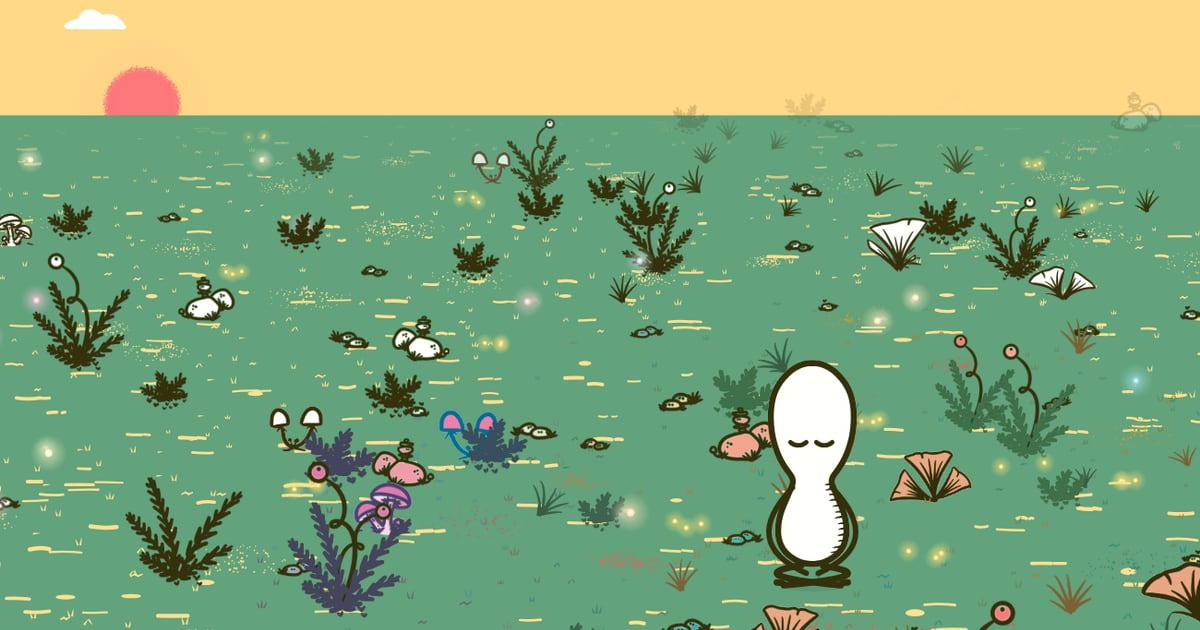
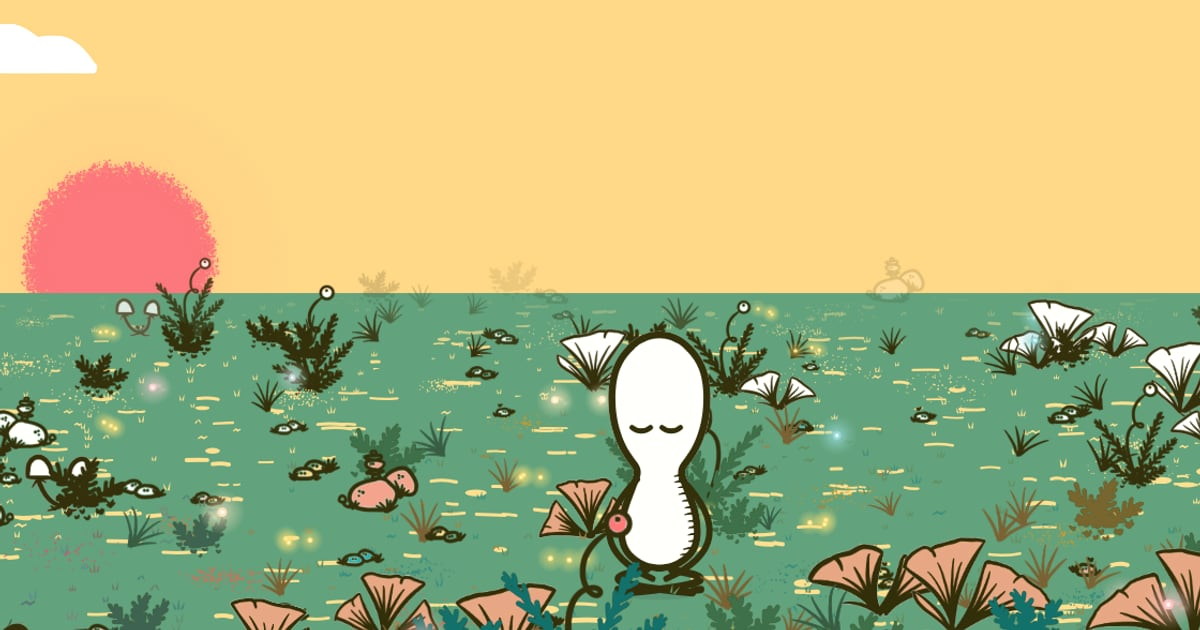
La franja de la hora en el iPhone: el mundo recupera su cielo, Inicio y las cartas le dan su color (#136)
* Sid's share picture: Sid in the middle, closer, the sun rising, the camera looking up as for a constellation

Claude-Session: https://claude.ai/code/session_01WTSfarsaRbQ4zQwAYYhqZ8

* The strip under the iPhone's clock: Sid's world keeps its sky, the landing and the cards give it their colour

- Sid's world is laid out on the screen below the strip (env(safe-area-inset-top)), as it was
  when the page started below it: the horizon, Sid and the sun's way as before, the strip more sky
- .status-strip takes --strip (statusStrip.js): the landing's violet turning into the navy as the
  hero scrolls away, a card's background colour; navy elsewhere

Claude-Session: https://claude.ai/code/session_01WTSfarsaRbQ4zQwAYYhqZ8

---------

diff --git a/src/lab/LabSid.vue b/src/lab/LabSid.vue
@@ -1015,7 +1015,19 @@ function toSid(p, d = state.d) {
     return { x: state.cam + (p.x - x0) / s, y: state.ground + (p.y - groundAt(d)) / s };
 }
 
-const view = { w: 1, h: 1, k: 1, dpr: 1, floor: 1 };
+const view = { w: 1, h: 1, k: 1, dpr: 1, floor: 1, top: 0 };
+// The strip under the clock and the battery (opened from the iPhone's Home Screen the page goes under it, black-translucent
+// in index.html; 0 elsewhere): the world is laid out on the screen below it, as it was when the page started below it, and
+// the strip is more sky over it
+let insetProbe = null;
+function safeTop() {
+    if (!insetProbe) {
+        insetProbe = document.createElement('div');
+        insetProbe.style.cssText = 'position:fixed;top:0;left:0;width:0;height:env(safe-area-inset-top, 0px);visibility:hidden;pointer-events:none';
+        document.body.appendChild(insetProbe);
+    }
+    return insetProbe.offsetHeight || 0;
+}
 let raf = 0, last = 0, paused = false;
 
 function resize() {
@@ -1023,11 +1035,13 @@ function resize() {
     view.dpr = Math.min(window.devicePixelRatio || 1, 2);
     view.w = el.clientWidth; view.h = el.clientHeight;
     el.width = view.w * view.dpr; el.height = view.h * view.dpr;
+    view.top = Math.min(safeTop(), view.h * 0.2);
+    const H = view.h - view.top;              // (the screen below the strip under the clock)
     // He is about half the height of the screen
     // (SMALL: he is a little smaller than at first, so the world, and her tree, are big round him)
-    view.k = SMALL * Math.min((ui.touch ? view.h * 0.55 : view.h * 0.62) / (TALL + STAND), view.w * 0.9 / 420);
+    view.k = SMALL * Math.min((ui.touch ? H * 0.55 : H * 0.62) / (TALL + STAND), view.w * 0.9 / 420);
     const was = state.ground;
-    state.ground = (ui.touch ? view.h * 0.84 : view.h * 0.86) / view.k;
+    state.ground = (view.top + (ui.touch ? H * 0.84 : H * 0.86)) / view.k;
     view.horizon0 = ui.touch ? 0.2 : 0.24;     // where the horizon is on the screen (high: little sky), and looking up
     lookAt();
     if (!was) { state.x = START_X; state.cam = state.x; state.camD = -follow(); }     // (he starts a short walk before the first place, which is ahead on his way)
@@ -1043,12 +1057,12 @@ const LOOK_HORIZON = { touch: 0.6, wide: 0.52 };
 function lookAt() {
     const e = state.look ?? 0, k = e * e * (3 - 2 * e);
     const at = view.horizon0 + ((ui.touch ? LOOK_HORIZON.touch : LOOK_HORIZON.wide) - view.horizon0) * k;
-    view.floor = (state.ground * view.k - view.h * at) / view.k;
+    view.floor = (state.ground * view.k - (view.top + (view.h - view.top) * at)) / view.k;
 }
 // (the starry night is as tall as the sky can be, looking up: the ground drawn over it hides what is under the horizon,
 // and its stars are not made again as the camera moves)
 function skyHeight() {
-    if (nightSky.value) nightSky.value.style.height = `${Math.ceil(view.h * (ui.touch ? LOOK_HORIZON.touch : LOOK_HORIZON.wide)) + 2}px`;
+    if (nightSky.value) nightSky.value.style.height = `${Math.ceil(view.top + (view.h - view.top) * (ui.touch ? LOOK_HORIZON.touch : LOOK_HORIZON.wide)) + 2}px`;
 }
 
 function pointerTo(e) {
@@ -1635,7 +1649,7 @@ function draw() {
     const W = view.w / view.k;
 
     // The floor, back to the horizon, and him on it at his depth (smaller and nearer the middle the farther back)
-    world.drawSky(c, { width: W, cam: state.cam, d: state.d }, 0, horizon());
+    world.drawSky(c, { width: W, cam: state.cam, d: state.d }, view.top / view.k, horizon());   // (the sun's way and the clouds in the sky below the strip under the clock; the sky's colour up to the top)
     // the zone's colours: his line and body, the colour under the starry night, and the header's icons cream by night
     INK = world.ink(); FILL = world.white();
     const dark = world.night(), under = world.nightColour();

diff --git a/src/views/Landing.vue b/src/views/Landing.vue
@@ -1,5 +1,7 @@
 <script setup>
 	import { onMounted, onBeforeUnmount, ref } from 'vue';
+    import { setStrip, mixColour } from '../composables/statusStrip.js';
+    const VIOLET = '#6A428D', NAVY = '#143246';   // (the hero's --tint, from the violet to the oracle block's navy)
     import { useRouter } from 'vue-router';
     import { inView, scroll } from "motion";
 
@@ -58,6 +60,8 @@
     const stopReveals = [];
 
     onBeforeUnmount(() => {
+        setStrip(null);
+        window.removeEventListener('scroll', stripFollows);
         unmounted = true;
         cellField?.destroy();
         spiral?.destroy();
@@ -67,8 +71,19 @@
         stopReveals.forEach((stop) => stop());
     });
 
+    function stripFollows() {
+        const hero = document.getElementById('hero');
+        if (!hero) return;
+        const h = window.innerHeight, end = hero.getBoundingClientRect().bottom;
+        setStrip(mixColour(VIOLET, NAVY, Math.min(1, Math.max(0, (h - end) / (h * 0.55)))));
+    }
+
     // //ON MOUNTED
 	onMounted (() => {         
+        // The strip under the iPhone's clock (installed app) goes on from the hero: violet, turning into the oracle block's
+        // navy as the hero's end rises from the bottom of the screen to 45% of it, as its --mix does (with reduced motion too)
+        stripFollows();
+        window.addEventListener('scroll', stripFollows, { passive: true });
         spiral = createHeroSpiral(spiralCanvas.value, { animate: !reducedMotion });
         starField = createStarField(starCanvas.value, document.getElementById('oracle'), { onShoot: () => play('star') });
         //The sky keeps going into the top of the next block and fades out as the background turns violet

diff --git a/src/App.vue b/src/App.vue
@@ -59,8 +59,8 @@
 </template>
 
 <!-- Opened from the iPhone's Home Screen the page goes under the clock and the battery (black-translucent, index.html):
-     only Sid's world shows there (its sky); everywhere else that strip is painted navy, where the white clock reads, and
-     the app starts below it. In Safari or on a computer there is no such strip (the inset is 0). -->
+     only Sid's world shows there (its sky); everywhere else that strip is painted, where the white clock reads, and the
+     app starts below it: navy, or the colour of the page's own top (--strip, statusStrip.js). In Safari or on a computer there is no such strip (the inset is 0). -->
 <style>
 	.status-strip { display: none; }
 	@media (display-mode: standalone) {
@@ -71,7 +71,10 @@
 			left: 0;
 			right: 0;
 			height: env(safe-area-inset-top, 0px);
-			background: #143246;
+			/* navy, or the colour a page gives it at its top (--strip, statusStrip.js): the landing's violet as it
+			   turns into the navy, a card's background */
+			background: var(--strip, #143246);
+			transition: background-color 400ms ease-out;
 			z-index: 60;
 			pointer-events: none;
 		}

diff --git a/src/components/CardTemplate.vue b/src/components/CardTemplate.vue
@@ -5,6 +5,7 @@
     import { takePendingTransition } from '../cardTransition.js';
 
     import { getCard } from '../data/cards.js';
+    import { setStrip } from '../composables/statusStrip.js';
     import { sceneFor, sceneNameFor } from '../data/cardScenes.js';
     import { setCurrentVisit, startCardVisit, track } from '../analytics.js';
 
@@ -70,6 +71,8 @@
     const stopInk = watchEffect(() => document.body.classList.toggle('card-ink', INK_HEADER.has(String(props.id))));
 
     onMounted(async () => {
+        // the strip under the iPhone's clock (installed app) in the card's background colour, the colour round its drawing
+        setStrip(color.value || null);
         window.addEventListener('scroll', fadeCue, { passive: true });
         window.addEventListener('pagehide', visit.finish);
         document.addEventListener('visibilitychange', onHidden);
@@ -108,6 +111,7 @@
     });
 
     onBeforeUnmount(() => {
+        setStrip(null);
         window.removeEventListener('scroll', fadeCue);
         stopReveals.forEach((stop) => stop());
         transition?.el.remove();

diff --git a/src/lab/sidWorld.js b/src/lab/sidWorld.js
@@ -1434,8 +1434,8 @@ export function createWorld({ clouds = null, moon = null, planted = [], visit = 
         lastD = view.d ?? lastD;
         screen = blend(zonesAt(view.cam, lastD));
         const L = light(), H = bottom - top;
-        c.clearRect(0, top, view.width, H + 2);
-        c.globalAlpha = L; c.fillStyle = css(screen.sky); c.fillRect(0, top, view.width, H + 2); c.globalAlpha = 1;
+        c.clearRect(0, 0, view.width, bottom + 2);         // (the sky's colour from the very top, under the clock too)
+        c.globalAlpha = L; c.fillStyle = css(screen.sky); c.fillRect(0, 0, view.width, bottom + 2); c.globalAlpha = 1;
         const scale = H / 1300 * 0.55;
         const along = (t, r) => ({ x: view.width * (0.06 + 0.88 * t), y: bottom + r - (bottom + r - (top + H * 0.4)) * Math.sin(Math.PI * t) });   // (high, but under the buttons)
         const sunT = clock < 0.5 ? clock / 0.5 : null, moonT = clock >= 0.5 ? (clock - 0.5) / 0.5 : null;

diff --git a/src/composables/statusStrip.js b/src/composables/statusStrip.js
@@ -1,0 +1,15 @@
+// The strip under the clock and the battery, when the app is opened from the iPhone's Home Screen (.status-strip in
+// App.vue, only in display-mode: standalone): navy everywhere, unless a page gives it the colour at its own top, so the
+// strip goes on from it: the landing's violet turning into the navy as it scrolls, a card's background colour.
+export function setStrip(colour) {
+    const root = document.documentElement;
+    if (colour) root.style.setProperty('--strip', colour);
+    else root.style.removeProperty('--strip');
+}
+
+// Between two #rrggbb colours, t 0..1
+export function mixColour(a, b, t) {
+    const pa = [1, 3, 5].map((i) => parseInt(a.slice(i, i + 2), 16));
+    const pb = [1, 3, 5].map((i) => parseInt(b.slice(i, i + 2), 16));
+    return `rgb(${pa.map((v, i) => Math.round(v + (pb[i] - v) * t)).join(', ')})`;
+}

diff --git a/CLAUDE.md b/CLAUDE.md
@@ -97,13 +97,13 @@ These cannot see what a real GPU or a real phone does (flicker, disappearing lay
 
 **Sharing:** a card is shared from the "share this card" button at the end of the reading, after the invitation (`share_opened`, `from: 'reading'`). There is no button over the scene any more: it sat over the drawing.
 
-**Share previews (og:image):** crawlers don't run JS, so `scripts/cardMetaPlugin.js` (Vite plugin, runs after `vite build`) writes `dist/card/<id>/index.html` with each card's own og:/twitter: tags (Spanish name and affirmation) and `dist/og/<id>.jpg` (1200x630, illustration over the card colour). Netlify serves those static files before the SPA redirect. Cards with no image are skipped and fall back to the generic tags in `index.html`. It also writes `dist/sid/index.html` for Sid's world, with its own words and picture. The pictures that are not a card's are in `public/share/` (1200x630): `home.jpg`, the generic one in `index.html` (Sid on his rug over the oracle block's navy sky, its stars drawn in code: `scripts/make-share-images.mjs`), and `sid.jpg`, a moment of the world itself (`scripts/shot-sid-share.mjs`, with the dev server running: Sid alone in lotus in Ciclos, a few steps away from the tree, as its red sun comes up (the world's clock set through the dev server's component, `setClock`), the world taking its colours round him, closer than in the app; a seeded `Math.random` makes Ciclos the zone he starts in). Every page has a `description` too (the card's affirmation on a card's).
+**Share previews (og:image):** crawlers don't run JS, so `scripts/cardMetaPlugin.js` (Vite plugin, runs after `vite build`) writes `dist/card/<id>/index.html` with each card's own og:/twitter: tags (Spanish name and affirmation) and `dist/og/<id>.jpg` (1200x630, illustration over the card colour). Netlify serves those static files before the SPA redirect. Cards with no image are skipped and fall back to the generic tags in `index.html`. It also writes `dist/sid/index.html` for Sid's world, with its own words and picture. The pictures that are not a card's are in `public/share/` (1200x630): `home.jpg`, the generic one in `index.html` (Sid on his rug over the oracle block's navy sky, its stars drawn in code: `scripts/make-share-images.mjs`), and `sid.jpg`, a moment of the world itself (`scripts/shot-sid-share.mjs`, with the dev server running: Sid alone in the middle, in lotus in Ciclos, a few steps away from the tree, as its red sun comes up, with the camera looking up as when a constellation forms but by day, closer than in the app; through `window.__sid` it sets the world's clock and holds the look, and a seeded `Math.random`, its seeds tried until the zone is Ciclos, picks the world). Every page has a `description` too (the card's affirmation on a card's).
 
 **Analytics:** anonymous usage analytics with PostHog, cookie-less and in memory (`src/analytics.js`, off unless `VITE_POSTHOG_KEY` is set; events, funnels and privacy guarantees in `docs/analitica.md`). Card pages tell one story per visit (`startCardVisit`: time, touches on the scene, whether the reading was reached) and scenes with a game report milestones with `sceneMilestone`. `card_left` and `table_left` (the 3D tables of `/oracle`, `/oracleTheNine` and `/deck`, from `startTableVisit` in `CardTable.vue` and `DeckRing.vue`) also carry how smoothly the page was drawn (`useFramePace.js`: average fps, % of slow frames, stutters, worst frame, plus cores and pixel ratio as a hint of the device); nothing is measured when nothing would be sent. Sid's world tells its own story the same way (`startWorldVisit`, called by `LabSid.vue`: `world_entered`, a few moments inside, such as the first step, each zone reached, each place meditated and each card opened from it, and `world_left` with the totals and the frames); of what the world keeps on the phone (`worldMemory.js`) only counts are sent: which visit it is, how many fragments of the story and how many kinds of plant (`world_entered`, `world_fragment`, `world_notebook_opened`, `world_plant_discovered`), and the first visit's lesson (`world_first_seed`).
 
 **No accounts:** there is no sign-in. A first Firebase sign-in (`/sign-in`, `/register`) was never finished and was removed; those addresses go to the landing. Accounts, if they come, start from what they are for (for example keeping the card of the day or a person's rulito).
 
-**PWA:** the service worker is built by `vite-plugin-pwa` (Workbox, configured in `vite.config.js`) as `dist/serviceWorker.js` and registered in `App.vue`. The app, the fonts and the deck's thumbnails are saved on the first visit; pictures (illustrations, scene layers) as they are seen. With internet, the page and the pictures are always asked for first (`NetworkFirst`; an unchanged picture costs a 304, Netlify revalidates `/assets` with its ETag), so a deploy is seen at once and an old app is never mixed with new pictures or a new scene with old ones (a picture that changes keeps its name); offline, or when the network does not answer in 3 s (pages) or 4 s (pictures), what was saved is used, and an address never visited opens the app's own `index.html`. A deploy takes over at once, and an app left open is asked again whenever it comes back to the front (`src/pwa.js`, at most every 10 min): if a new version took over it reloads at once when nothing was touched yet, otherwise on the next return; `main.js` reloads once if an old page asks for a chunk that is gone (`vite:preloadError`). `public/manifest.webmanifest` configures standalone install behavior. If the phone closes the installed app in the background, it starts again at its `start_url` (the landing): whoever was in Sid's world in the last 6 h goes back into it (`src/composables/worldResume.js`, written by `LabSid.vue` while the world is open and cleared on walking out of it in the app, read by the router on the first page; only in `display-mode: standalone`; Sid starts again where every visit starts). Opened from the iPhone's Home Screen the page goes under the clock (`black-translucent`, `viewport-fit=cover` in `index.html`, read by iOS when the icon is added): Sid's world shows its sky there, every other page a navy strip as tall as the clock (`.status-strip` in `App.vue`, only in `display-mode: standalone`) and starts below it; the header sits at `env(safe-area-inset-top)`. In Safari (iOS 26 ignores `theme-color`) the bar takes the background of the fixed element at the top, so the lab's `.lab` and `body` take the sky's colour at the top edge (`topColour()` in `sidWorld.js`).
+**PWA:** the service worker is built by `vite-plugin-pwa` (Workbox, configured in `vite.config.js`) as `dist/serviceWorker.js` and registered in `App.vue`. The app, the fonts and the deck's thumbnails are saved on the first visit; pictures (illustrations, scene layers) as they are seen. With internet, the page and the pictures are always asked for first (`NetworkFirst`; an unchanged picture costs a 304, Netlify revalidates `/assets` with its ETag), so a deploy is seen at once and an old app is never mixed with new pictures or a new scene with old ones (a picture that changes keeps its name); offline, or when the network does not answer in 3 s (pages) or 4 s (pictures), what was saved is used, and an address never visited opens the app's own `index.html`. A deploy takes over at once, and an app left open is asked again whenever it comes back to the front (`src/pwa.js`, at most every 10 min): if a new version took over it reloads at once when nothing was touched yet, otherwise on the next return; `main.js` reloads once if an old page asks for a chunk that is gone (`vite:preloadError`). `public/manifest.webmanifest` configures standalone install behavior. If the phone closes the installed app in the background, it starts again at its `start_url` (the landing): whoever was in Sid's world in the last 6 h goes back into it (`src/composables/worldResume.js`, written by `LabSid.vue` while the world is open and cleared on walking out of it in the app, read by the router on the first page; only in `display-mode: standalone`; Sid starts again where every visit starts). Opened from the iPhone's Home Screen the page goes under the clock (`black-translucent`, `viewport-fit=cover` in `index.html`, read by iOS when the icon is added): Sid's world shows its sky there (laid out on the screen below the strip, as it was when the page started below it, so the strip is more sky over it: `view.top`, read from `env(safe-area-inset-top)`, in `LabSid.vue`), every other page a strip as tall as the clock (`.status-strip` in `App.vue`, only in `display-mode: standalone`) and starts below it; the strip is navy unless the page gives it its own top's colour (`--strip`, `setStrip` in `src/composables/statusStrip.js`): the landing's violet, turning into the oracle block's navy as the hero scrolls away, and a card's background colour; the header sits at `env(safe-area-inset-top)`. In Safari (iOS 26 ignores `theme-color`) the bar takes the background of the fixed element at the top, so the lab's `.lab` and `body` take the sky's colour at the top edge (`topColour()` in `sidWorld.js`).
 
 **Fonts:** Nunito (text) and Caveat (titles, handwriting), both served from `src/assets` (no Google Fonts or other font hosts). `<html lang>` follows the chosen language (`main.js`).
 
